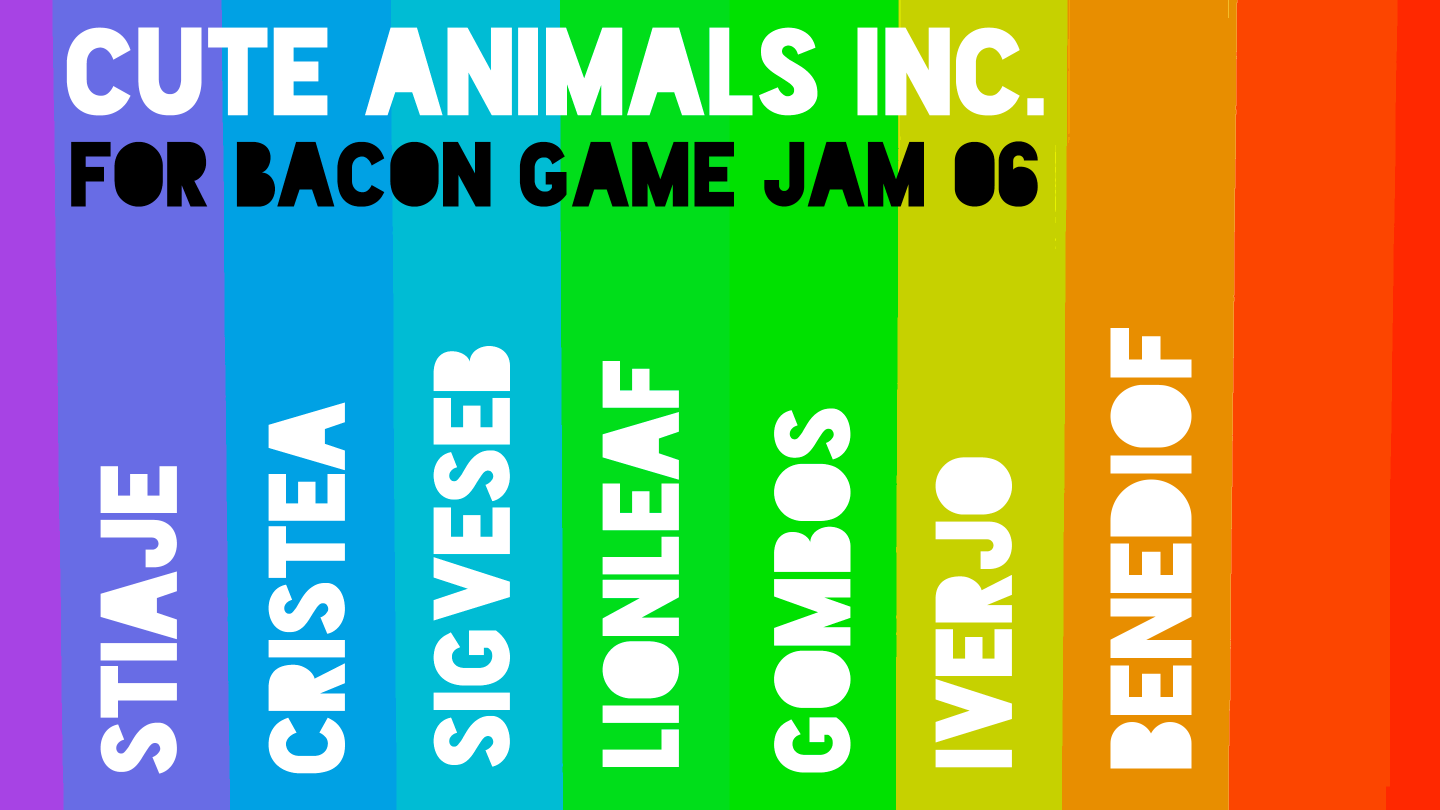
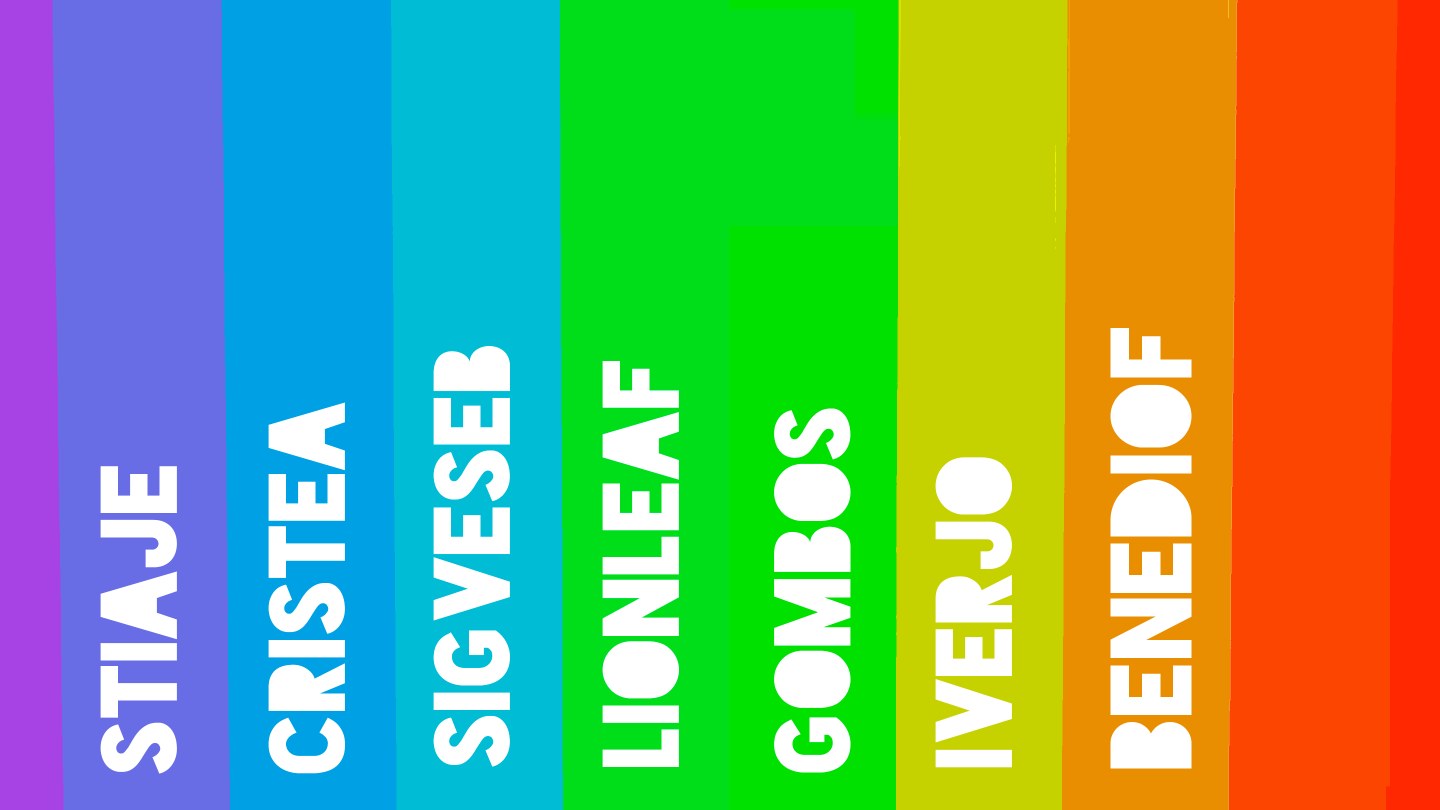
Vectorized the header on the about page

Changed region(s): [[0.0312, 0.0, 0.75, 0.2778]]

diff --git a/src/CreditsState.js b/src/CreditsState.js
@@ -5,19 +5,21 @@ CreditsState.prototype.init = function() {
 };
 
 CreditsState.prototype.pause = function() {
+  $('#wrapper > .credits-header').remove();
   $('#wrapper > .credits-text').remove();
 };
 
 CreditsState.prototype.resume = function() {
-  this.bg_img = loadImage('res/about.png');
+  this.bg_img = loadImage('res/about.png?v=2');
   this.cooldown = true;
   this.elements = [
     [function() {
       sm.changeState('menu');
     }, {x: 0, y: 0, w: 16, h: 9}]
   ];
+  var header = $('.credits-header.template').clone().removeClass('template');
   var text = $('.credits-text.template').clone().removeClass('template');
-  $('#wrapper').append(text);
+  $('#wrapper').append(header).append(text);
 };
 
 CreditsState.prototype.render = function(ctx) {

diff --git a/index.html b/index.html
@@ -102,6 +102,11 @@
             <span class="purple">C</span><span class="indigo">U</span><span class="blueish">T</span><span class="tealish">E</span>&nbsp;<span class="green">ANIM</span><span class="yellowish">AL</span><span class="orange">S&nbsp;I</span><span class="red1">N</span><span class="red2">C.</span>
         </div>
 
+        <div class="credits-header template">
+            <h1>cute animals inc.</h1>
+            <h2>for bacon game jam 06</h2>
+        </div>
+
         <div class="credits-text template">
             this game was<br>
             written during<br>

diff --git a/res/style.css b/res/style.css
@@ -310,6 +310,22 @@ strong {
     color: black;
 }
 
+.credits-header {
+    position: absolute;
+    left: 4.6%;
+    top: 3.1%;
+    font-size: 4.2em;
+    line-height: 1.8em;
+}
+
+.credits-header > h1 {
+    color: white;
+}
+
+.credits-header > h2 {
+    color: black;
+}
+
 .credits-text {
     color: white;
     position: absolute;
